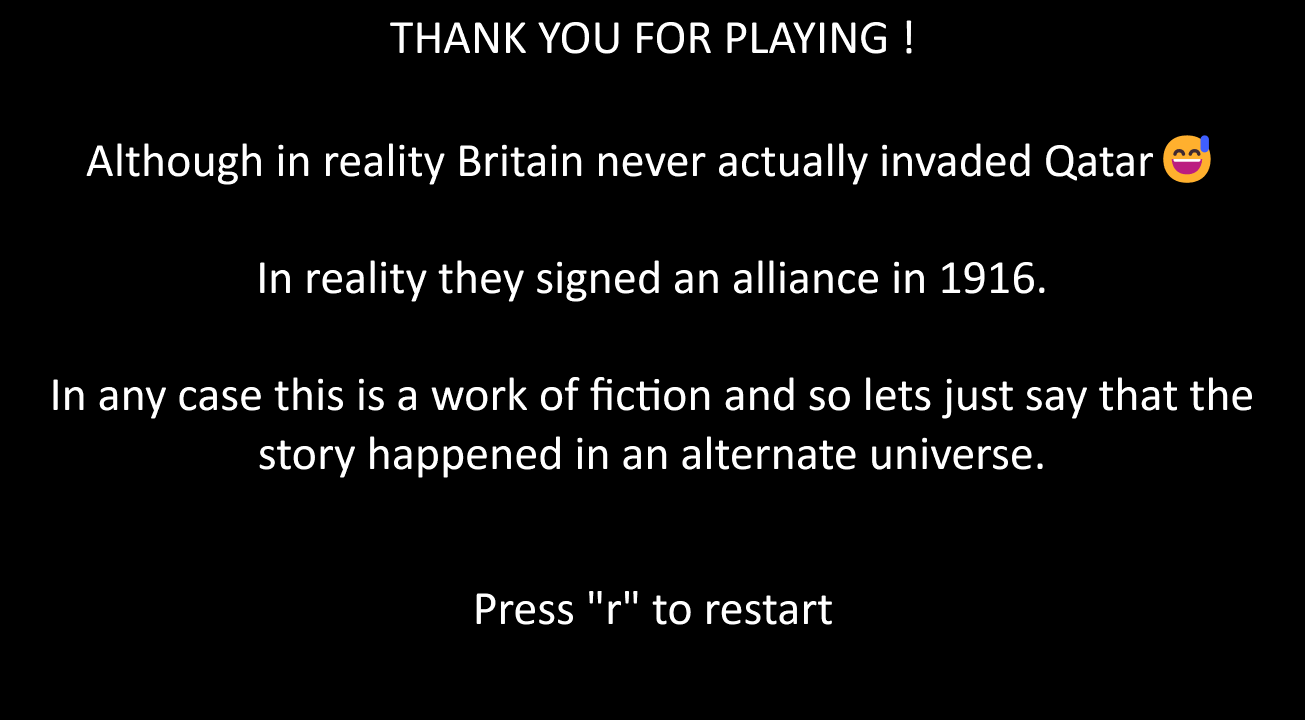
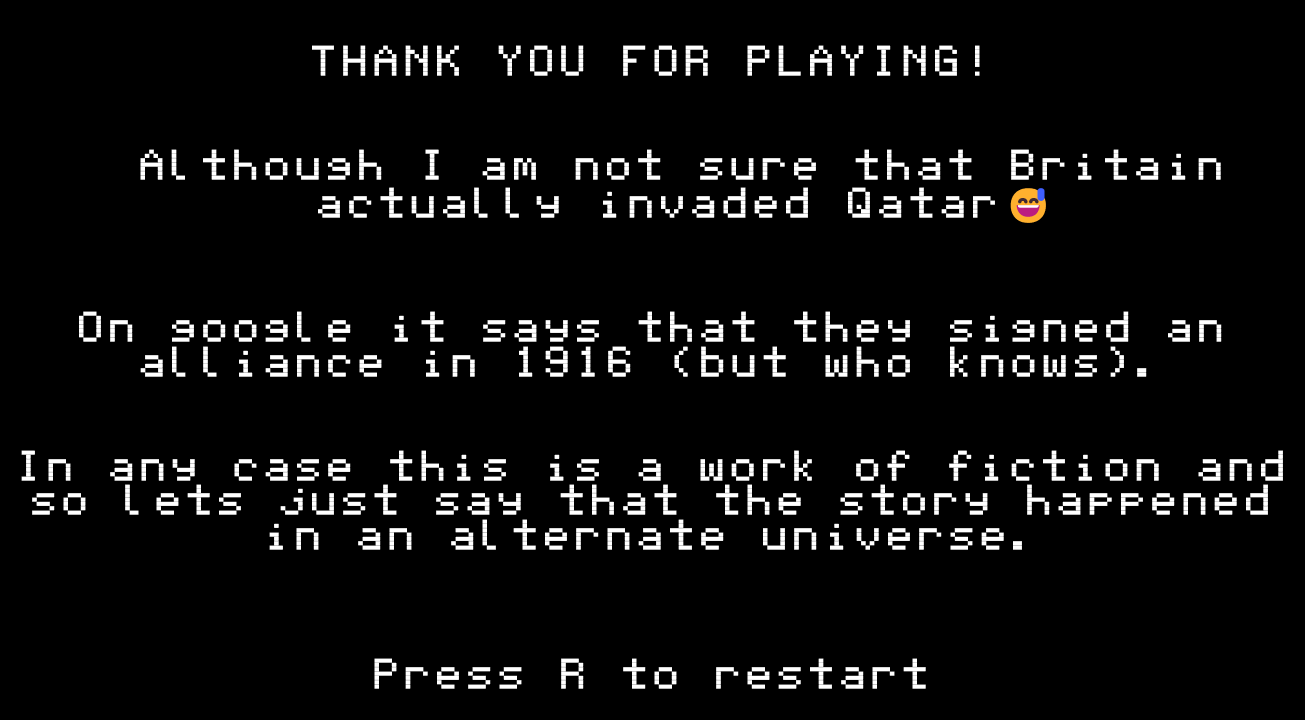
finalised end screen

diff --git a/main.py b/main.py
@@ -237,16 +237,8 @@ def redrawAll(app):
     elif app.gameState == 100:
         scene100Draw(app)
     else:
-        # to do : modify end screen 
         app.endScreen.drawSelf()
-    # drawLine(app.width/2,0, app.width/2, app.height, fill='green')
-    # drawLine(0, app.height/2, app.width,app.height/2, fill='green')
-
-    # shader feature to develop after mvp
     app.shader.drawSelf()
-    # draw the number of frame since the beginining of the game for debugging
-    # drawLabel(str(app.debuggingTicks), 650, 360, fill='red', size=24)
-
 
 # load the json dictionnary in the game variable
 with open('./gameGlobal.json', 'r') as file:
